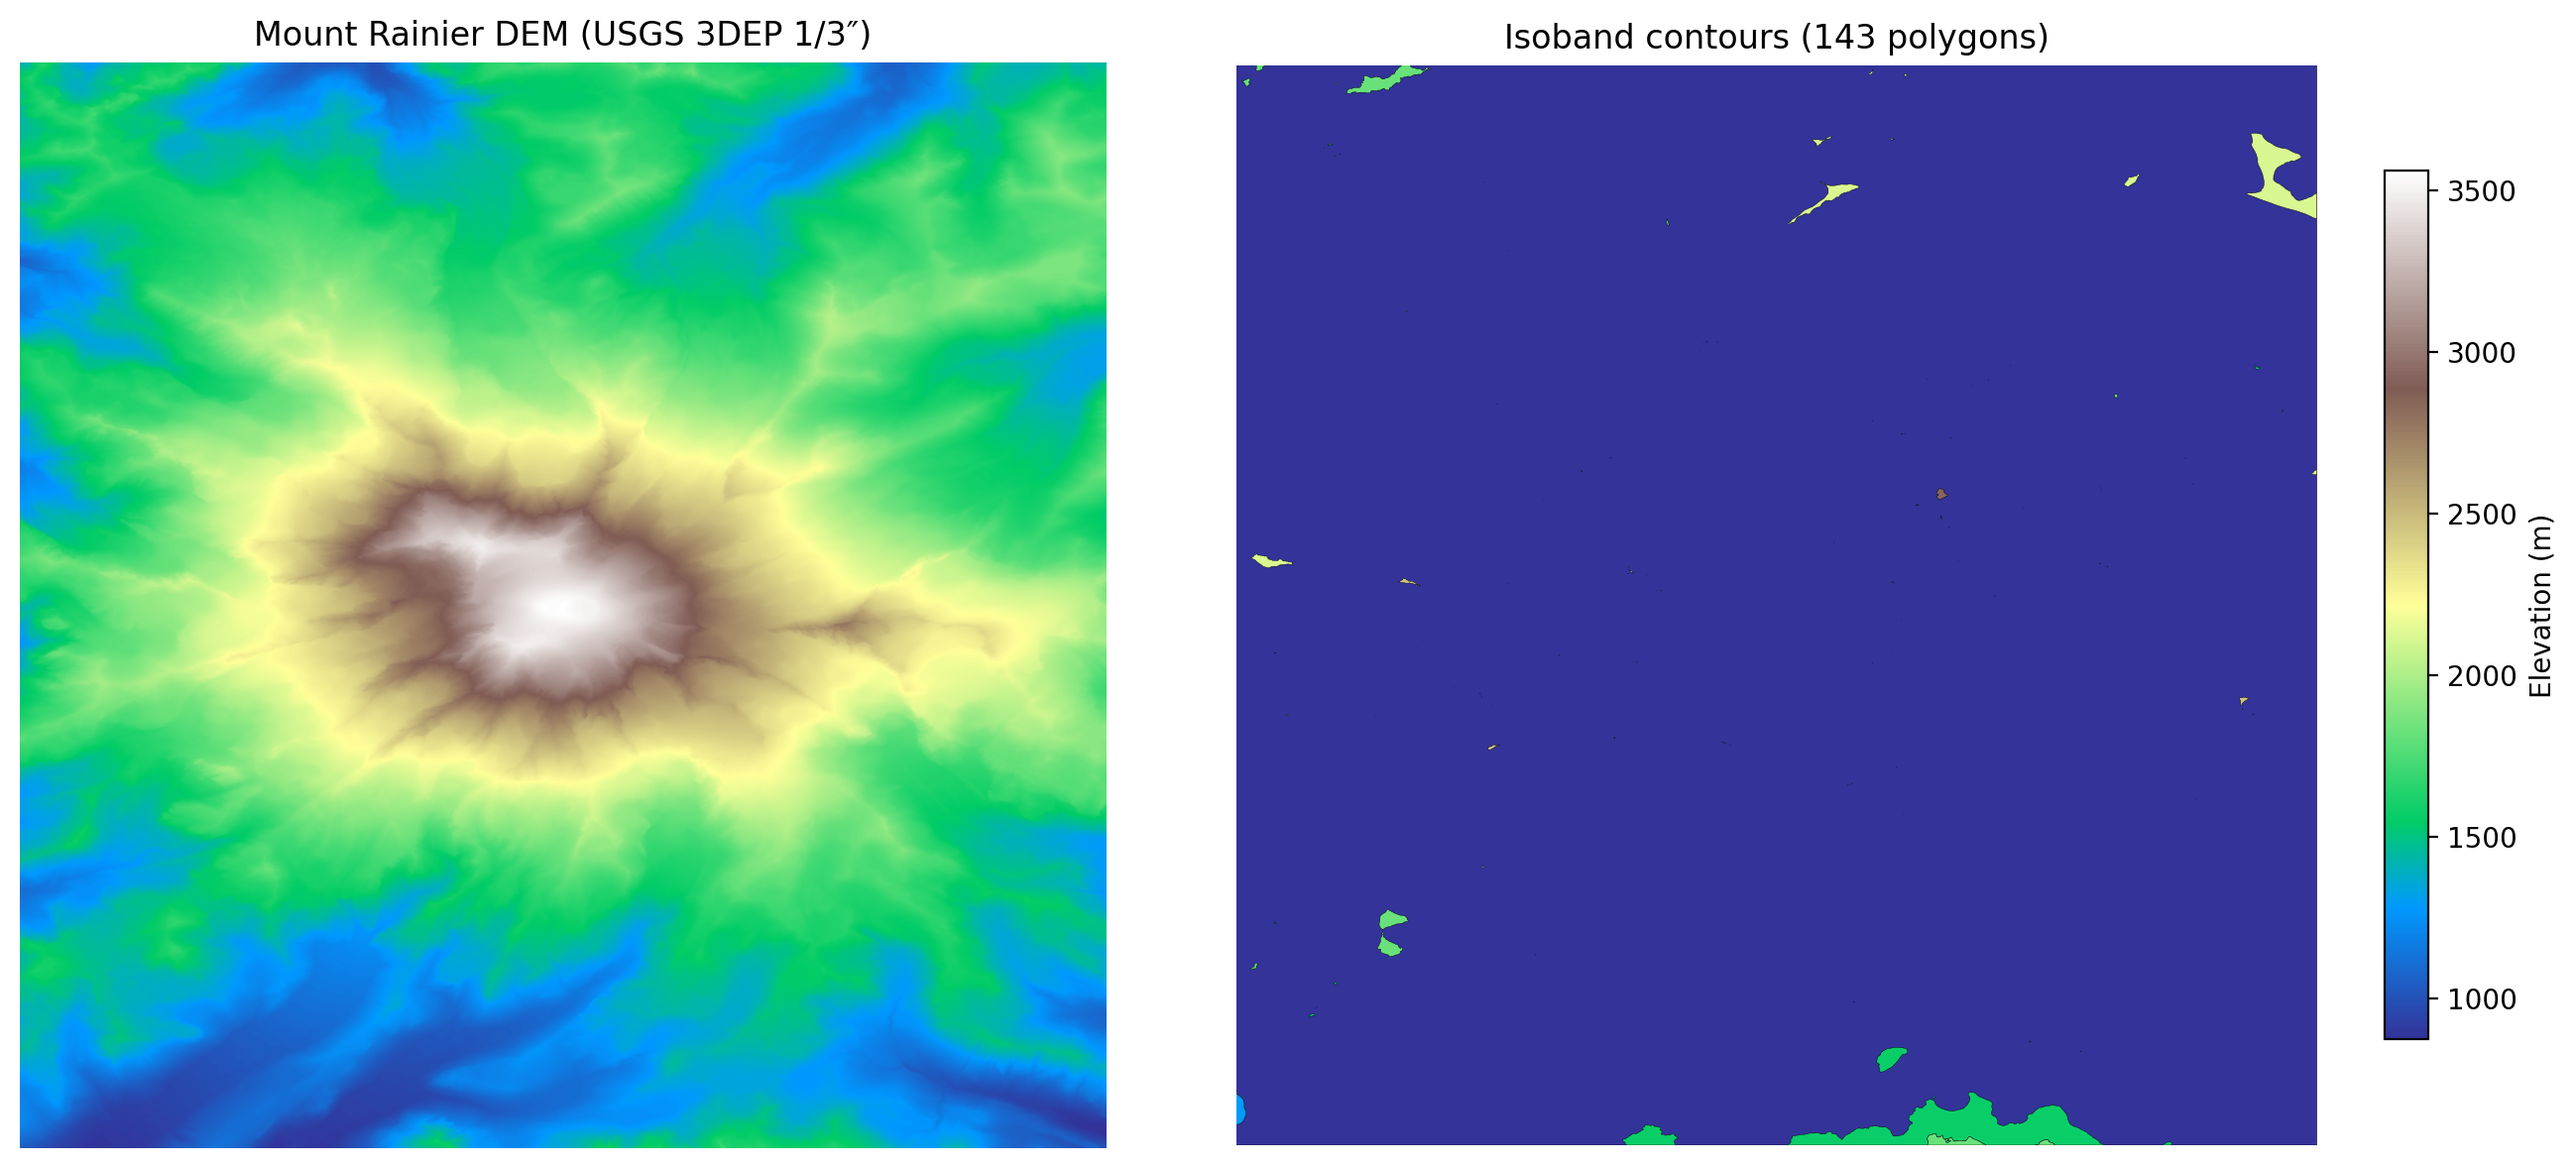
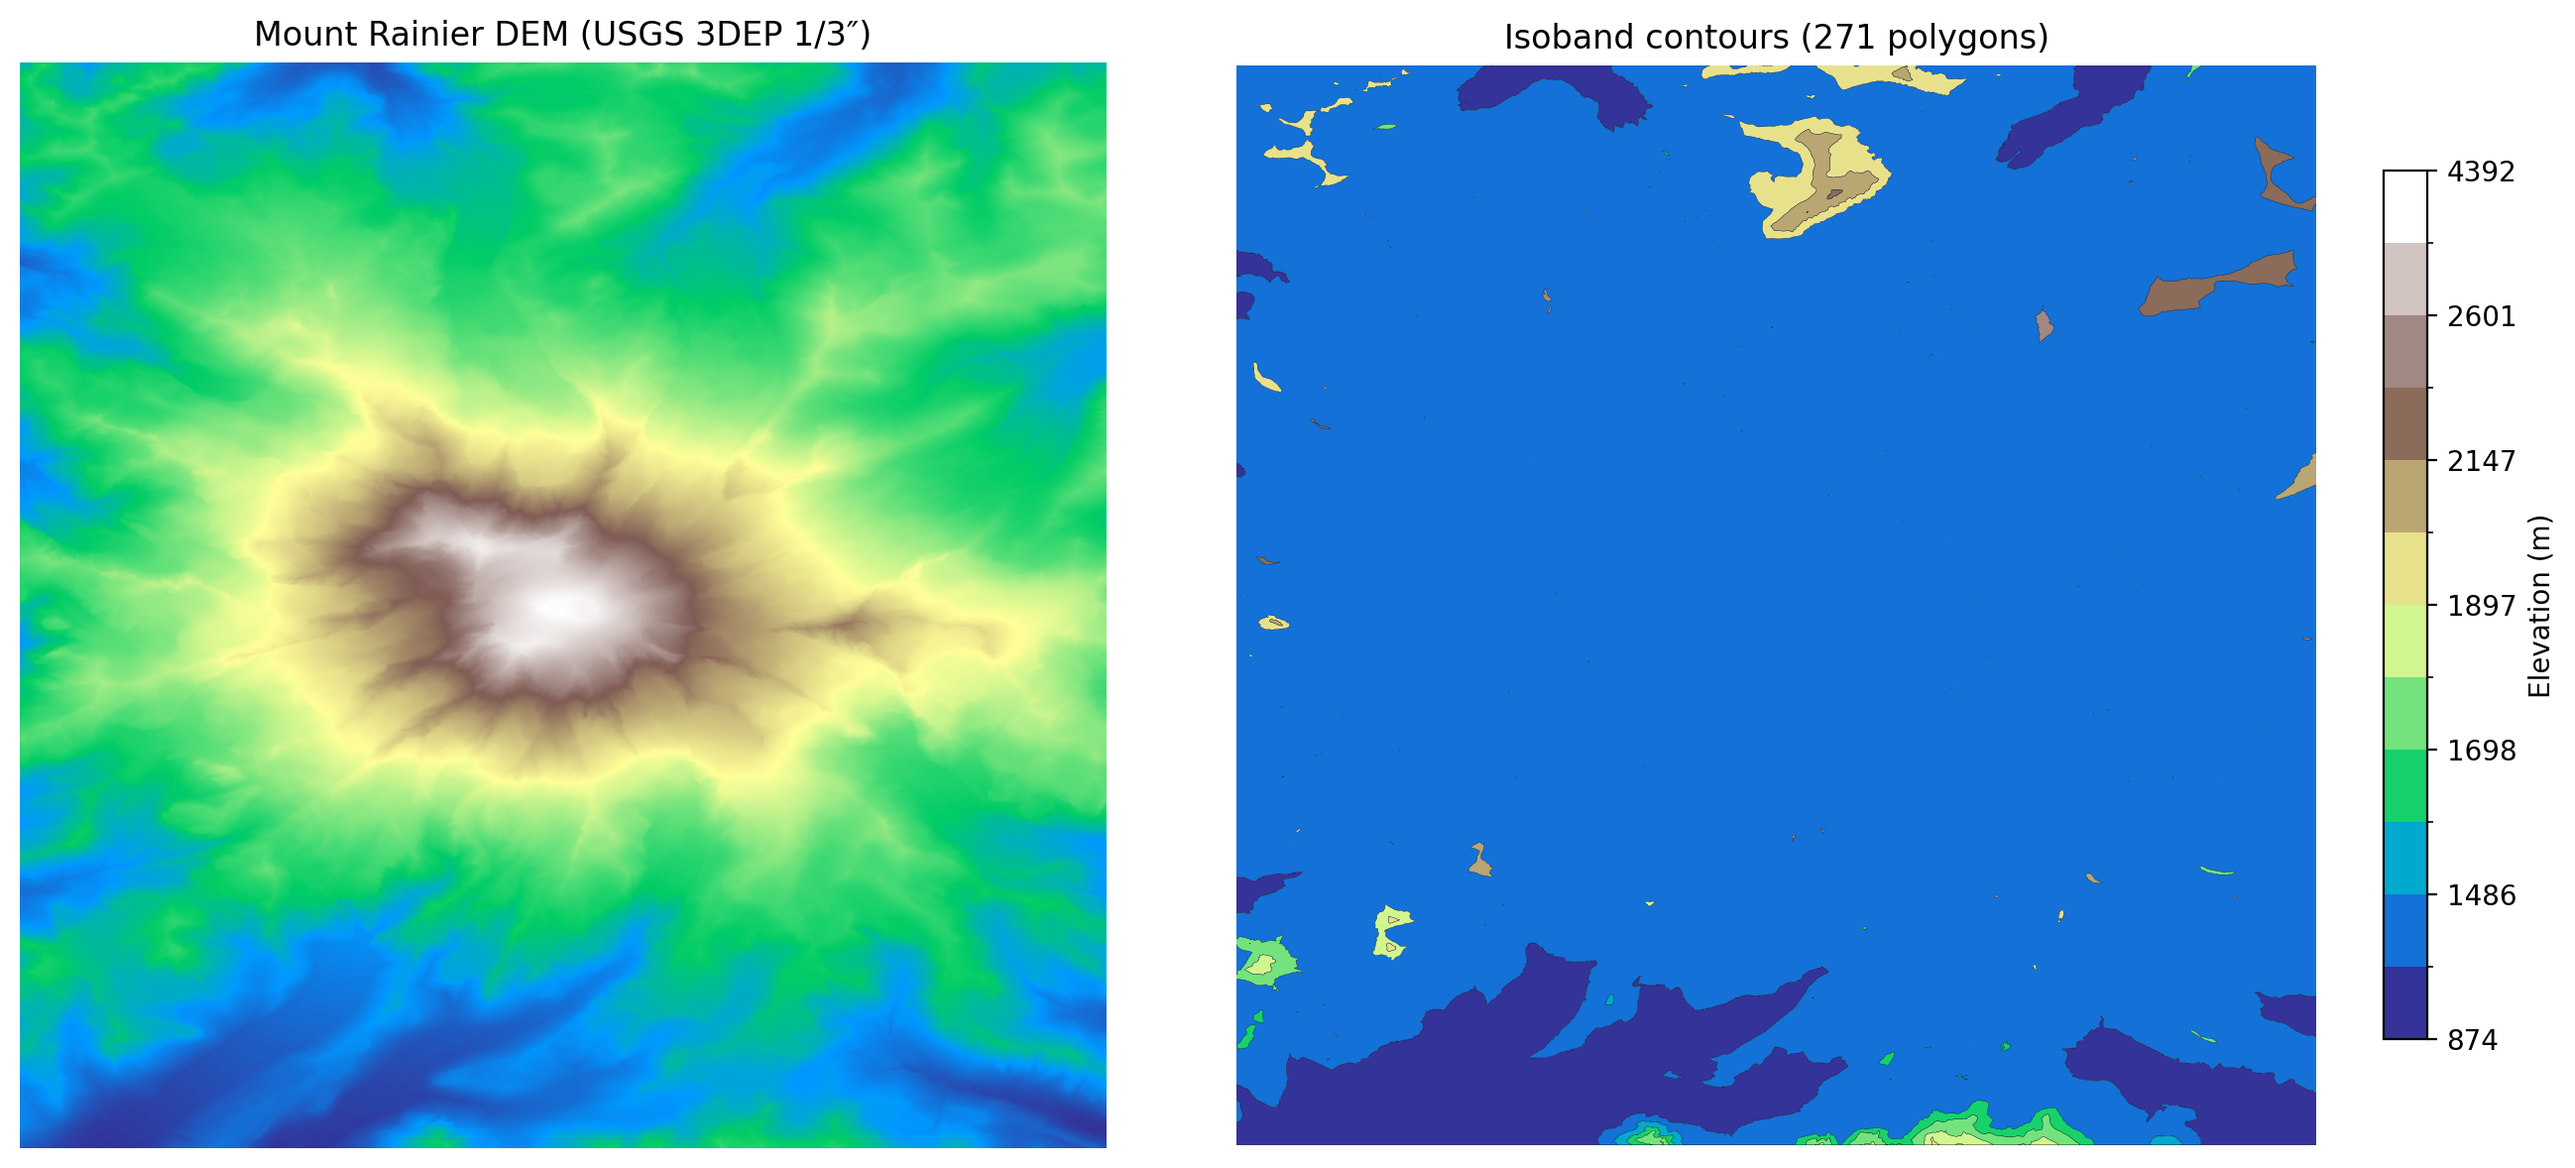
fix: improve Mount Rainier contour bins with histogram-adaptive thresholds
Switch real-DEM threshold selection to CDF quantile breaks so dense
elevation ranges get finer bands, then render discrete isoband classes
with a boundary-normalized colorbar for clearer terrain separation.

diff --git a/examples/dem_contour.py b/examples/dem_contour.py
@@ -11,6 +11,7 @@ import matplotlib.figure
 import numpy as np
 import rasterio
 from contourrs import contours_arrow
+from matplotlib.colors import BoundaryNorm
 
 matplotlib.use("Agg")
 import matplotlib.pyplot as plt
@@ -52,47 +53,24 @@ def make_synthetic_dem(size: int = 256) -> np.ndarray:
 def choose_histogram_thresholds(
     data: np.ndarray,
     *,
-    band_count: int = 8,
-    sample_size: int = 200_000,
-    seed: int = 42,
+    band_count: int = 12,
+    histogram_bins: int = 512,
 ) -> list[float]:
-    """Choose thresholds from histogram peaks via 1D k-means clustering."""
+    """Choose thresholds from histogram density via CDF quantiles."""
     finite = data[np.isfinite(data)].astype(np.float64)
     if finite.size == 0:
         msg = "DEM has no finite values"
         raise ValueError(msg)
 
-    if finite.size > sample_size:
-        rng = np.random.default_rng(seed)
-        sample = rng.choice(finite, size=sample_size, replace=False)
-    else:
-        sample = finite
+    sample_bin_count = finite.size // 32 if finite.size > 0 else 32
+    bin_count = max(32, min(histogram_bins, sample_bin_count))
+    counts, edges = np.histogram(finite, bins=bin_count)
+    cdf = counts.cumsum().astype(np.float64)
+    cdf /= cdf[-1]
 
-    k = min(max(2, band_count), sample.size)
-    centroids = np.quantile(sample, np.linspace(0.0, 1.0, k))
-
-    for _ in range(30):
-        distances = np.abs(sample[:, None] - centroids[None, :])
-        labels = np.argmin(distances, axis=1)
-        updated = np.array(
-            [
-                sample[labels == i].mean() if np.any(labels == i) else centroids[i]
-                for i in range(k)
-            ]
-        )
-        if np.allclose(updated, centroids, atol=1e-3):
-            break
-        centroids = updated
-
-    centroids = np.sort(centroids)
-    thresholds = [float(finite.min())]
-    thresholds.extend(
-        float((centroids[i] + centroids[i + 1]) / 2.0)
-        for i in range(len(centroids) - 1)
-    )
-    thresholds.append(float(finite.max()))
-
-    thresholds = sorted(set(thresholds))
+    quantiles = np.linspace(0.0, 1.0, max(2, band_count) + 1)
+    thresholds = np.interp(quantiles, np.concatenate(([0.0], cdf)), edges)
+    thresholds = sorted({float(value) for value in thresholds})
     if len(thresholds) < 2:
         thresholds = [float(finite.min()), float(finite.max())]
     return thresholds
@@ -141,7 +119,7 @@ def plot_real_dem(
     dem_path: Path,
     thresholds: list[float] | None = None,
     *,
-    band_count: int = 8,
+    band_count: int = 12,
     save_name: str = "contours_mt_rainier.png",
 ) -> None:
     with rasterio.open(dem_path) as src:
@@ -178,6 +156,13 @@ def plot_real_dem(
         )
     )
 
+    band_count = len(threshold_values) - 1
+    cmap = plt.get_cmap("terrain", band_count)
+    norm = BoundaryNorm(threshold_values, cmap.N, clip=True)
+    gdf = gdf.copy()
+    band_index = np.searchsorted(threshold_values, gdf["value"], side="right") - 1
+    gdf["band"] = np.clip(band_index, 0, band_count - 1).astype(np.int32)
+
     h, w = data.shape
     print(
         f"Real DEM: {w}x{h}, range {np.nanmin(data):.0f}-{np.nanmax(data):.0f} m, "
@@ -198,20 +183,17 @@ def plot_real_dem(
     axes[0].set_ylim(bounds.bottom, bounds.top)
     axes[0].set_aspect("equal")
 
-    gdf.plot(
-        ax=axes[1],
-        column="value",
-        cmap="terrain",
-        edgecolor="black",
-        linewidth=0.15,
-        legend=True,
-        legend_kwds={"label": "Elevation (m)", "shrink": 0.8},
-    )
+    gdf.plot(ax=axes[1], column="band", cmap=cmap, edgecolor="black", linewidth=0.1)
     axes[1].set_title(f"Isoband contours ({len(gdf)} polygons)")
     axes[1].set_axis_off()
     axes[1].set_xlim(bounds.left, bounds.right)
     axes[1].set_ylim(bounds.bottom, bounds.top)
     axes[1].set_aspect("equal")
+
+    scalar = plt.cm.ScalarMappable(norm=norm, cmap=cmap)
+    scalar.set_array([])
+    colorbar = fig.colorbar(scalar, ax=axes[1], shrink=0.8)
+    colorbar.set_label("Elevation (m)")
 
     plt.tight_layout()
     _save_figure(fig, save_name, dpi=200)
@@ -239,8 +221,8 @@ def parse_args() -> argparse.Namespace:
     p.add_argument(
         "--bands",
         type=int,
-        default=8,
-        help="Number of real-DEM contour bands for auto threshold selection",
+        default=12,
+        help="Number of real-DEM contour bands (histogram-adaptive thresholds)",
     )
     p.add_argument(
         "--real-thresholds",
